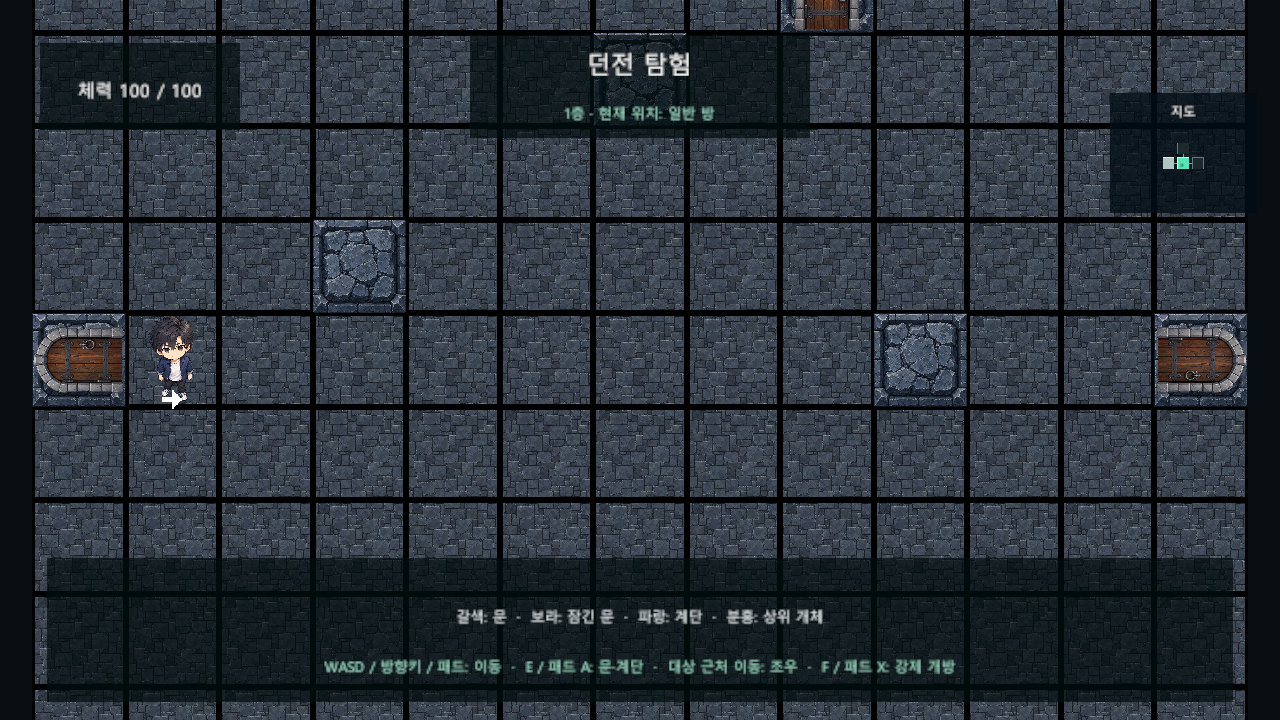
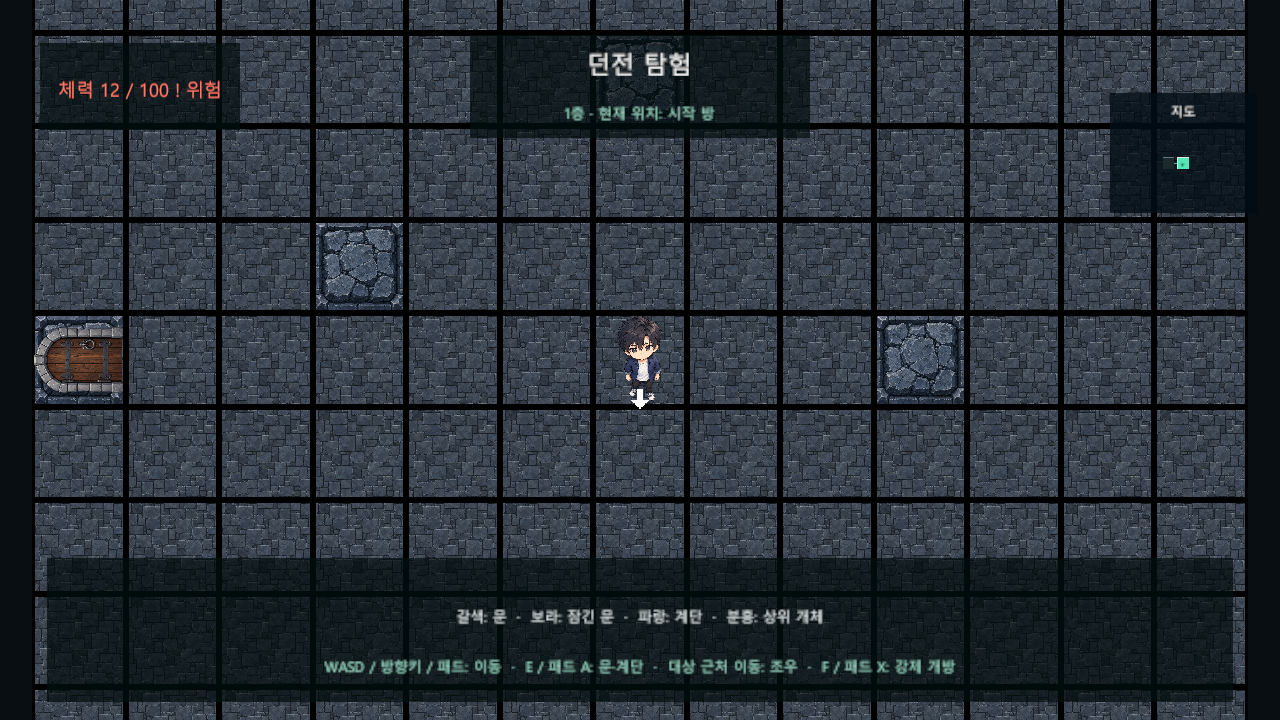
32일차 : 낮은 체력 경고 개선
- 낮은 체력 위험 문구와 표시 추가
- 체력 회복 후 경고 해제 검증 추가
- 최신 플레이 화면과 검증 기록 수정

diff --git a/Assets/ProjectDelta/Tests/PlayMode/DungeonRuntimeGenerationTests.cs b/Assets/ProjectDelta/Tests/PlayMode/DungeonRuntimeGenerationTests.cs
@@ -192,6 +192,17 @@ namespace ProjectDelta.Tests // 검증 이름 공간
             yield return null; // 경고 표시 갱신 대기
             Assert.That(text.text, Does.Contain("12 / 100")); // 낮은 체력 수치 표시 확인
             Assert.That(text.color.r, Is.GreaterThan(text.color.g)); // 낮은 체력의 경고 색상 확인
+            Assert.That(text.text, Does.Contain("위험")); // 낮은 체력 경고 문구 확인
+            var capturePath = System.Environment.GetEnvironmentVariable("PROJECT_DELTA_CAPTURE_PATH"); // 최신 플레이 화면 저장 경로
+            if (!string.IsNullOrEmpty(capturePath) && Application.isBatchMode) // 화면 없는 캡처 요청 검사
+            { // 캡처 조건 시작
+                var image = CaptureScreen("DungeonCanvas"); // 낮은 체력 경고의 실제 게임 화면
+                System.IO.File.WriteAllBytes(capturePath, image.EncodeToPNG()); // 최신 플레이 화면 저장
+                Object.Destroy(image); // 임시 이미지 정리
+            } // 캡처 조건 끝
+            AppRoot.Instance.UpdatePlayerHealth(50); // 체력 회복 상태 설정
+            yield return null; // 회복 표시 갱신 대기
+            Assert.That(text.text, Does.Not.Contain("위험")); // 체력 회복 후 경고 해제 확인
         } // 검증 끝
         [UnityTest] // 던전 안내 가독성과 입력 통과 검증
         public IEnumerator DungeonHud_HasReadableNonBlockingBackgrounds() // 안내 배경과 게임 입력 보존

diff --git a/Assets/ProjectDelta/Runtime/DungeonScreenView.cs b/Assets/ProjectDelta/Runtime/DungeonScreenView.cs
@@ -44,7 +44,7 @@ namespace ProjectDelta.Runtime // 실행 이름 공간
                 return; // 표시할 체력이 없는 경우 유지
             } // 누락 조건 끝
             var health = AppRoot.Instance.PlayerHealth; // 현재 플레이어 체력
-            playerHealth.text = "체력 " + health + " / 100"; // 현재 체력과 시험 최대 체력
+            playerHealth.text = "체력 " + health + " / 100" + (health <= 25 ? " ! 위험" : string.Empty); // 현재 체력과 낮은 체력 경고
             playerHealth.color = health <= 25 ? new Color(1f, 0.48f, 0.42f) : Color.white; // 낮은 체력의 경고 색상
         } // 갱신 끝
         private static void CreateBackground(Transform parent, string name, Vector2 position, Vector2 size) // 안내 문구용 입력 통과 배경

diff --git a/Assets/ProjectDelta/Editor/DayThirtyTwoProjectSetup.cs b/Assets/ProjectDelta/Editor/DayThirtyTwoProjectSetup.cs
@@ -1,0 +1,12 @@
+using UnityEditor; // 편집기 메뉴
+namespace ProjectDelta.Editor // 제작 도구 이름 공간
+{ // 이름 공간 시작
+    public static class DayThirtyTwoProjectSetup // 32일차 Windows 빌드
+    { // 클래스 시작
+        [MenuItem("Project Delta/32일차/Windows 빌드")] // 편집기 빌드 메뉴
+        public static void BuildWindows() // 32일차 실행 파일 빌드
+        { // 빌드 시작
+            DayOneProjectSetup.BuildWindowsAt("Builds/Day32"); // 기존 빌드와 분리된 출력 경로
+        } // 빌드 끝
+    } // 클래스 끝
+} // 이름 공간 끝

diff --git a/README.md b/README.md
@@ -42,7 +42,7 @@ Unity Hub에서 저장소 폴더를 프로젝트로 추가하고 `Assets/Project
 ---
 ## 검증과 빌드
 
-PowerShell에서 `Tools/Run-DayThirtyOneChecks.ps1 -Check EditMode`, `-Check PlayMode`, `-Check Build`로 실행한다. 편집기 경로가 다르면 `-UnityPath`로 지정한다. 플레이 화면을 창을 띄우지 않고 캡처하려면 `-Check Screenshot`을 사용한다. Windows 테스트 실행 파일 검증은 `-Check PlayerTests`를 사용한다. 원본 프로젝트가 Unity에서 열려 있으면 별도 프로젝트 복사본에서 테스트한다.
+PowerShell에서 `Tools/Run-DayThirtyTwoChecks.ps1 -Check EditMode`, `-Check PlayMode`, `-Check Build`로 실행한다. 편집기 경로가 다르면 `-UnityPath`로 지정한다. 플레이 화면을 창을 띄우지 않고 캡처하려면 `-Check Screenshot`을 사용한다. Windows 테스트 실행 파일 검증은 `-Check PlayerTests`를 사용한다. 원본 프로젝트가 Unity에서 열려 있으면 별도 프로젝트 복사본에서 테스트한다.
 
 기본 씬 재생성은 Unity 메뉴 `Project Delta/1일차/기본 씬 재생성`으로 실행한다. 생성기는 해당 기본 씬 세 개를 덮어쓰므로 씬 편집 후에는 변경을 먼저 보존한다.
 
@@ -52,4 +52,4 @@ PowerShell에서 `Tools/Run-DayThirtyOneChecks.ps1 -Check EditMode`, `-Check Pla
 
 세 번째 방과 지도를 구성하는 메뉴는 `Project Delta/4일차/시험 방과 지도 구성`이다. 기존 방·문 설정이 시험 구성과 다르거나 새 출구 칸이 점유되어 있으면 구성을 중단한다.
 
-검증 기록은 `Artifacts`, 31일차 Windows 빌드는 `Builds/Day31`에 생성되며 Git에서 제외한다. 기존 빌드도 각 일차의 경로에 남는다.
+검증 기록은 `Artifacts`, 32일차 Windows 빌드는 `Builds/Day32`에 생성되며 Git에서 제외한다. 기존 빌드도 각 일차의 경로에 남는다.

diff --git a/docs/development/day-032.md b/docs/development/day-032.md
@@ -1,0 +1,17 @@
+---
+# 32일차: 낮은 체력 경고 개선
+
+---
+## 구현 내용
+
+- 체력이 25 이하일 때 경고색에 더해 느낌표와 위험 문구 표시.
+- 체력이 회복되면 경고 문구를 제거하고 기본 색상 복구.
+- 기존 체력과 아이템 판정 및 입력 유지.
+- 낮은 체력 상태의 실제 플레이 화면을 README에 반영.
+
+---
+## 검증 결과
+
+- 별도 Unity 프로젝트에서 EditMode 테스트 148개와 PlayMode 테스트 95개 통과.
+- 낮은 체력 문구, 회복 후 경고 해제와 실제 화면 캡처 검증.
+- Windows 빌드 성공. 사용자 화면 보호를 위해 실행 파일 테스트는 실행하지 않음.

diff --git a/docs/superpowers/specs/2026-10-29-day32-health-warning-design.md b/docs/superpowers/specs/2026-10-29-day32-health-warning-design.md
@@ -1,0 +1,14 @@
+---
+# 32일차 낮은 체력 경고 설계
+
+---
+## 범위
+
+- 기존 체력 25 이하 기준에서 색상과 함께 위험 문구와 느낌표 표시.
+- 체력 회복 시 위험 문구를 자동으로 제거.
+- 기존 체력 판정과 게임 조작 유지.
+
+---
+## 검증
+
+별도 Unity 프로젝트에서 경고 표시와 회복 후 해제, 기존 게임 흐름 및 실제 화면을 확인한다.

diff --git a/docs/superpowers/plans/2026-10-29-day32-health-warning.md b/docs/superpowers/plans/2026-10-29-day32-health-warning.md
@@ -1,0 +1,7 @@
+---
+# 32일차 구현 계획
+
+1. 기획서의 낮은 체력 경고와 실제 표시 확인.
+2. 위험 문구와 느낌표 표시 및 회복 후 자동 해제.
+3. 별도 Unity 프로젝트에서 회귀 테스트와 실제 화면 및 빌드 확인.
+4. 최신 화면을 README에 반영하고 커밋과 푸시.
